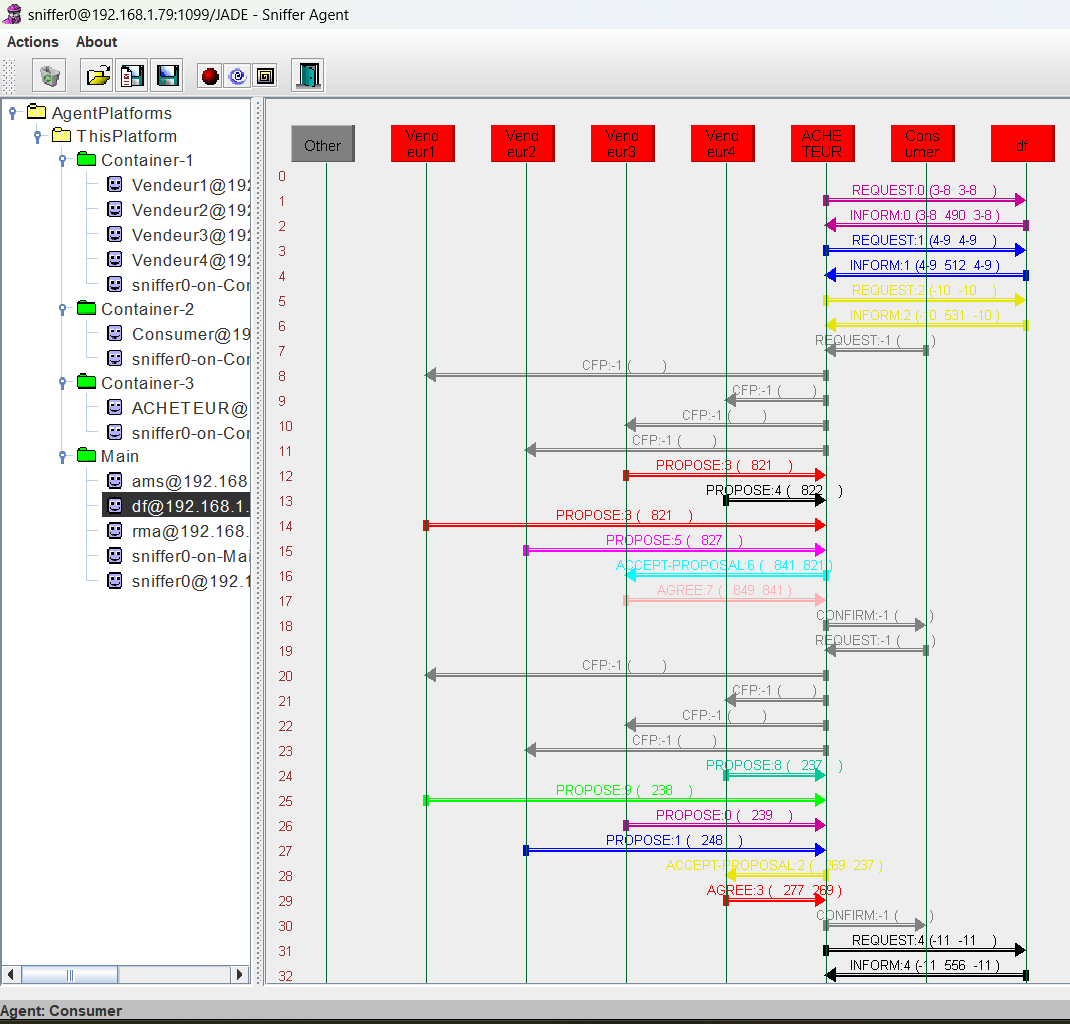
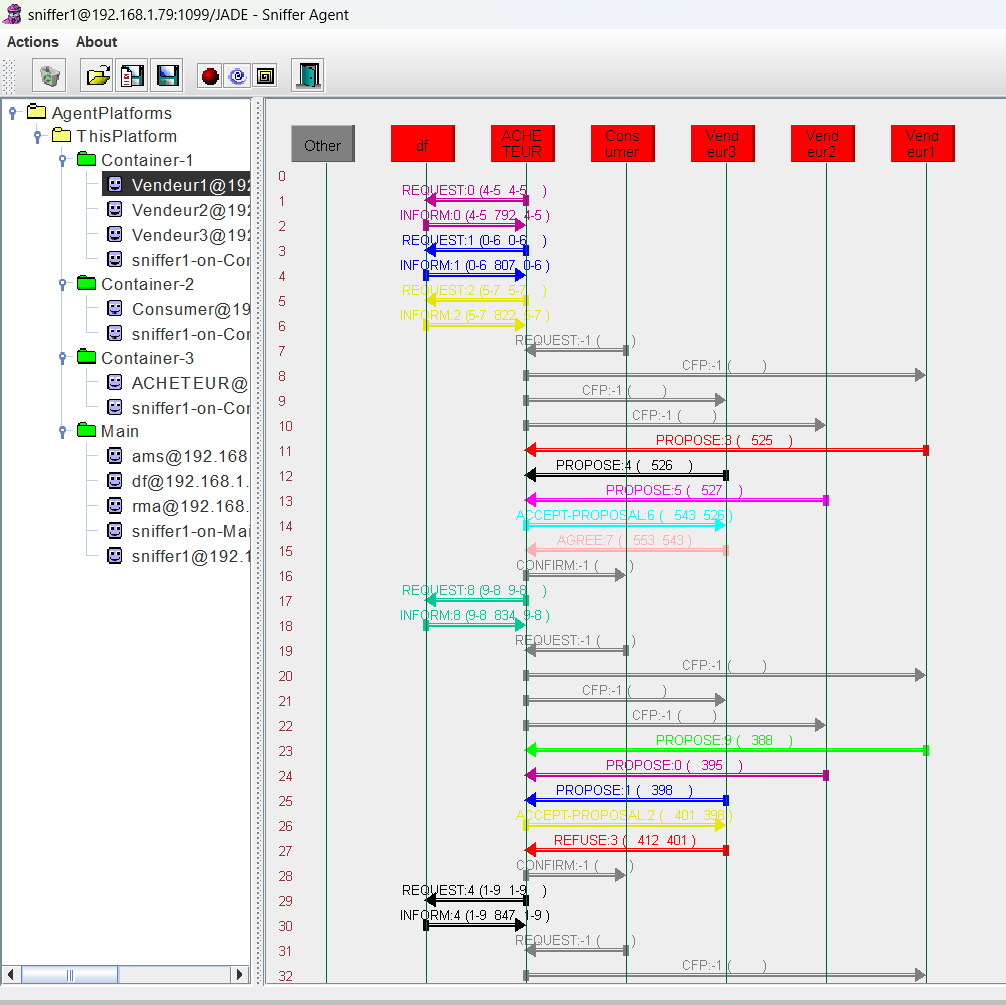
finish

Changed region(s): [[0.0, 0.0, 1.0, 1.0], [0.8628, 0.7403, 0.9245, 0.7711], [0.8628, 0.4318, 0.9245, 0.4627]]

diff --git a/src/main/java/com/iguider/agents/VendeurAgent.java b/src/main/java/com/iguider/agents/VendeurAgent.java
@@ -52,22 +52,29 @@ public class VendeurAgent extends GuiAgent {
                 if(aclMessage!=null){
                     // log le message dans l'interface graphique
                     gui.logMessage(aclMessage);
+                    ACLMessage reply = aclMessage.createReply();
+
                     switch (aclMessage.getPerformative()){
                         case ACLMessage.CFP :
-                            ACLMessage reply = aclMessage.createReply();
                             reply.setPerformative(ACLMessage.PROPOSE);
                             reply.setContent(String.valueOf(500+new Random().nextInt(1000)));// nomber entre 0 et 1000
-                            send(reply);
                             break;
                         case ACLMessage.ACCEPT_PROPOSAL:
-                            ACLMessage aclMessage2=aclMessage.createReply();
-                            aclMessage2.setContent(aclMessage.getContent());
-                            aclMessage2.setPerformative(ACLMessage.AGREE);// il faut consulter le stock pour répondre par accepte ou refuse
-                            send(aclMessage2);
+                            // decide whether to accept proposal or not
+                            Random random = new Random();
+                            double randomNumber = random.nextDouble();
+                            boolean accept = randomNumber < 0.7;
+                            if(accept){
+                                reply.setPerformative(ACLMessage.AGREE);// il faut consulter le stock pour répondre par accepte ou refuse
+                                reply.setContent(aclMessage.getContent());
+                            }else{
+                                reply.setPerformative(ACLMessage.REFUSE);
+                            }
                             break;
                         default:
                             break;
                     }
+                    send(reply);
                 }
                 else{
                     block();

diff --git a/src/main/java/com/iguider/agents/AcheteurAgent.java b/src/main/java/com/iguider/agents/AcheteurAgent.java
@@ -109,10 +109,14 @@ public class AcheteurAgent extends GuiAgent {
                         case ACLMessage.AGREE :
                             ACLMessage aclMessage3 = new ACLMessage(ACLMessage.CONFIRM);
                             aclMessage3.addReceiver(new AID("Consumer",AID.ISLOCALNAME));
-                            aclMessage3.setContent(aclMessage.getContent());
+                            aclMessage3.setContent("Best price : "+aclMessage.getContent());
                             send(aclMessage3);
                             break;
                         case ACLMessage.REFUSE :
+                            ACLMessage aclMessage4 = new ACLMessage(ACLMessage.CONFIRM);
+                            aclMessage4.addReceiver(new AID("Consumer",AID.ISLOCALNAME));
+                            aclMessage4.setContent("Book not found in stock ! ");
+                            send(aclMessage4);
                             break;
                         default:
                             break;

diff --git a/src/main/java/com/iguider/containers/ConsumerContainer.java b/src/main/java/com/iguider/containers/ConsumerContainer.java
@@ -81,7 +81,7 @@ public class ConsumerContainer extends Application {
     public void logMessage(ACLMessage aclMessage){
         Platform.runLater(()->{
             //l'agent à chaque fois qu'ils veut log quelque chose dans l'interface il n'a qu'à faire appel à cette méthode
-            observableListData.add(aclMessage.getSender().getName()+ " best price : " + aclMessage.getContent());
+            observableListData.add(aclMessage.getSender().getName()+ " " + aclMessage.getContent());
         });
     }
 

diff --git a/README.MD b/README.MD
@@ -1,0 +1,5 @@
+<h1>Projet Systèmes Multi Agent avec JADE</h1>
+<h2>Interfaces</h2>
+<img src="resultats.png">
+<h2>Interface snifer</h2>
+<img src="resultat-snifer.png">
